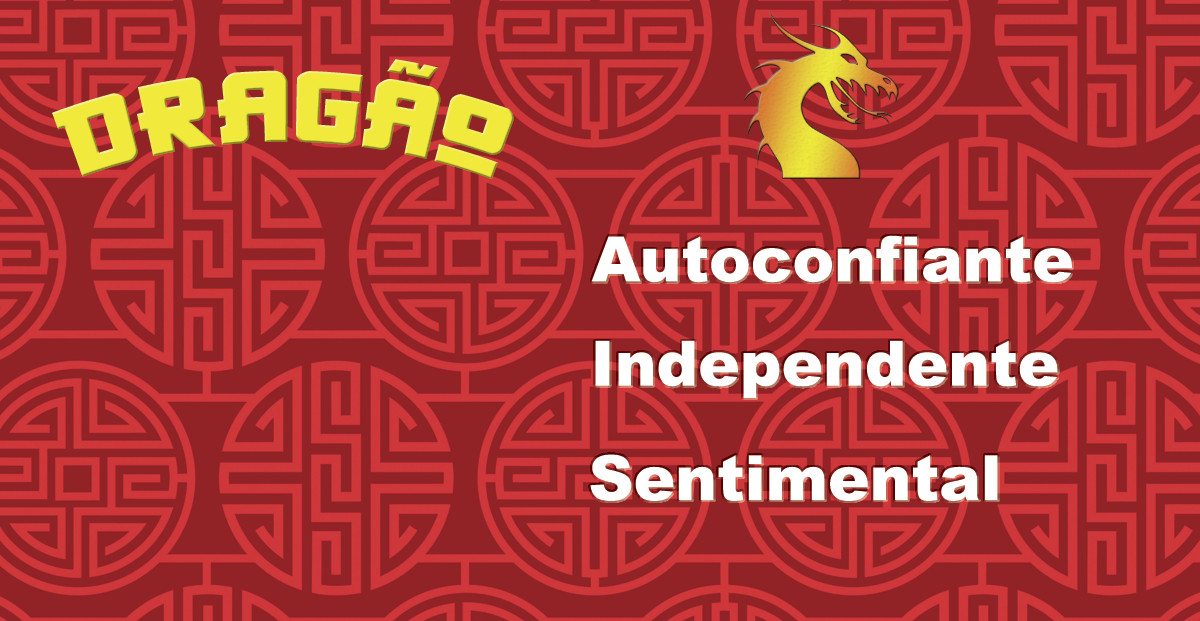
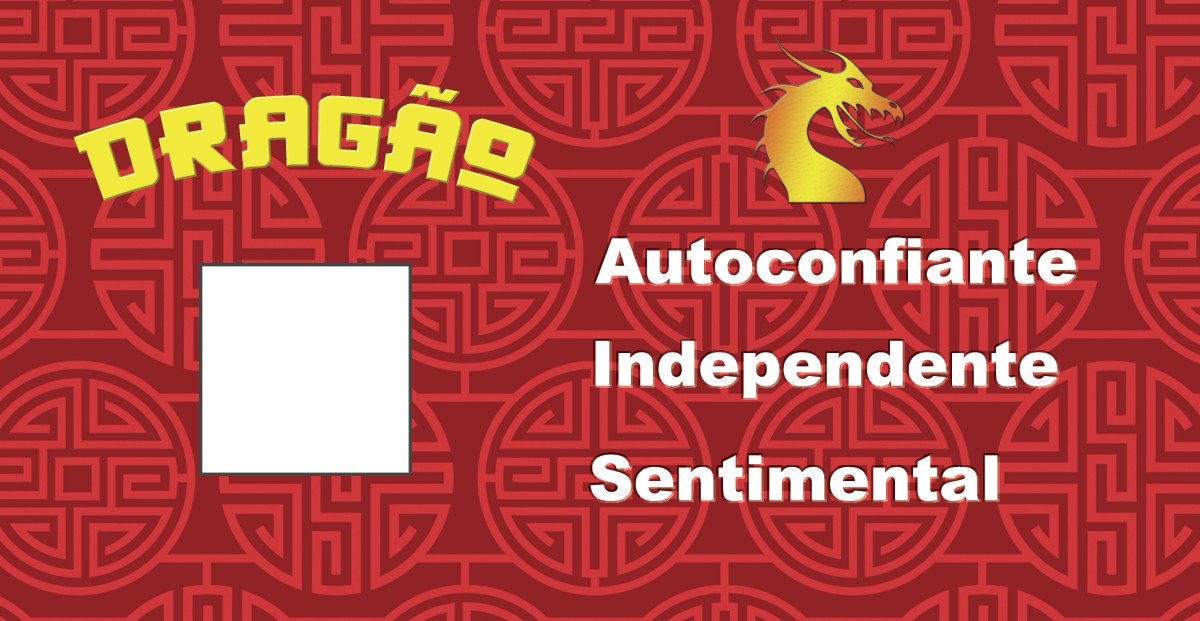
:0

diff --git a/app.js b/app.js
@@ -3,6 +3,7 @@ const NUM_LOAD_WIDGET = 20;
 const express = require('express');
 const app = express();
 const pug = require('pug');
+const request = require('request');
 
 const fs = require('fs');
 const path = require('path');
@@ -31,7 +32,6 @@ function createRandomString(length) {
 	for (; str.length < length; str += Math.random().toString(36).substr(2));
 	return str.substr(0, length);
 }
-
 
 var generatePage = function (img, option) {
 
@@ -70,7 +70,7 @@ const pageData = {
 		solve: function (data) {
 
 			return new Promise(function (resolve, reject) {
-				var chineseHoroscope = new ChineseHoroscope(data.name, data.birthday);
+				var chineseHoroscope = new ChineseHoroscope('https://scontent.xx.fbcdn.net/v/t1.0-1/p200x200/12002164_10207116181093275_3968334355201663834_n.jpg?oh=858fe3390106dd53a38cae49d275c5c6&oe=59E345B9', data.name, data.birthday);
 
 				chineseHoroscope.getImage().then(function (img) {
 
@@ -120,11 +120,15 @@ app.get('/initialize', function (req, res) {
 });
 
 app.post('/:page', function (req, res) {
-	FB.api('me', { fields: 'id,name,birthday', access_token: req.body.token }, function (data) {
-		pageData[req.params.page].solve({ token: data.token, name: data.name, birthday: data.birthday }).then(function (url) {
-			res.send(JSON.stringify({ url: url }));
-		})
-	});
+	// FB.api('me', { fields: 'id,name,birthday', access_token: req.body.token }, function (data) {
+	// 	pageData[req.params.page].solve({ id:data.id, token: data.token, name: data.name, birthday: data.birthday, imgUrl:data.picture.data.url }).then(function (url) {
+	// 		res.send(JSON.stringify({ url: url }));
+	// 	})
+	// });
+
+	pageData[req.params.page].solve({ id:"321321",token: '321321321', name: 'rokoala koala', birthday: '22/10/1988', imgUrl:'bla' }).then(function (url) {
+		res.send(JSON.stringify({url:url}))
+	})
 })
 
 app.get('/:quiz', function (req, res) {

diff --git a/quiz/chineseHoroscope.js b/quiz/chineseHoroscope.js
@@ -1,28 +1,27 @@
 var Jimp = require("jimp");
 
-var ChineseHoroscope = function (name, birthday) {
+var ChineseHoroscope = function (imgUrl, name, birthday) {
   this.animals = ["monkey", "cock", "dog", "boar", "rat", "ox", "tiger", "rabbit", "dragon", "snake", "horse", "sheep"];
   this.name = name;
   this.birthday = birthday;
+  this.imgUrl = imgUrl;
 };
 
 ChineseHoroscope.prototype.getImage = function () {
   var year = this.birthday.split('/')[2];
   var image = this.animals[(year % this.animals.length)] + ".jpg";
+  var profileImage = this.imgUrl;
   var message = this.name + " seu signo é:";
 
   return new Promise(function (resolve, reject) {
 
-
-    Jimp.read('public/images/koala.jpg').then(function (koala) {
-      koala.resize(280,360)
-
+    Jimp.read(profileImage).then(function (fbImg) {
       Jimp.read('results/chinesehoroscope/' + image).then(function (img) {
         var clone = img.clone();
-        Jimp.loadFont(Jimp.FONT_SANS_64_WHITE).then(function (font) {
-          clone.composite(koala,150,180)
+        //Jimp.loadFont(Jimp.FONT_SANS_64_WHITE).then(function (font) {
+          clone.composite(fbImg,205,270)
           resolve(clone);
-        });
+        //});
       }).catch(function (err) {
         console.error(err);
         reject(err);
